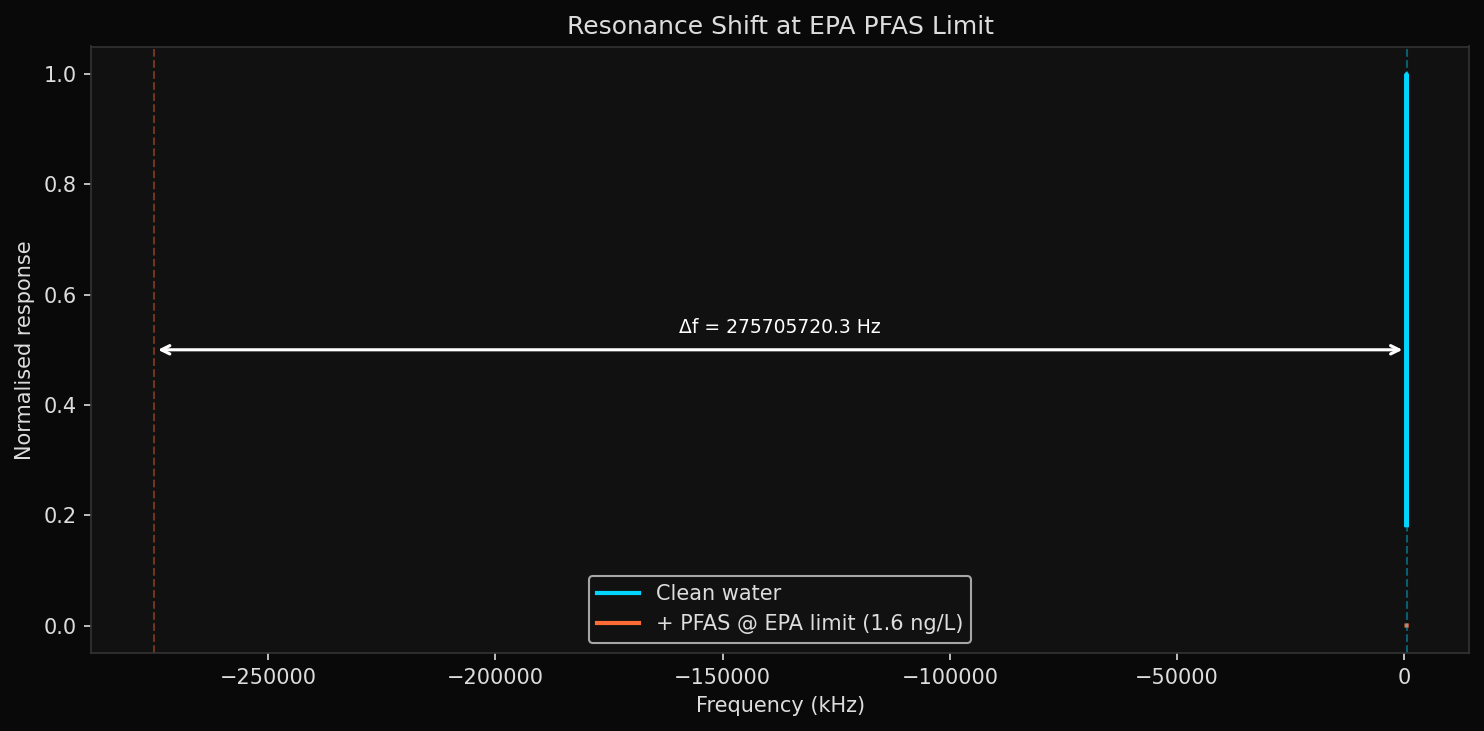
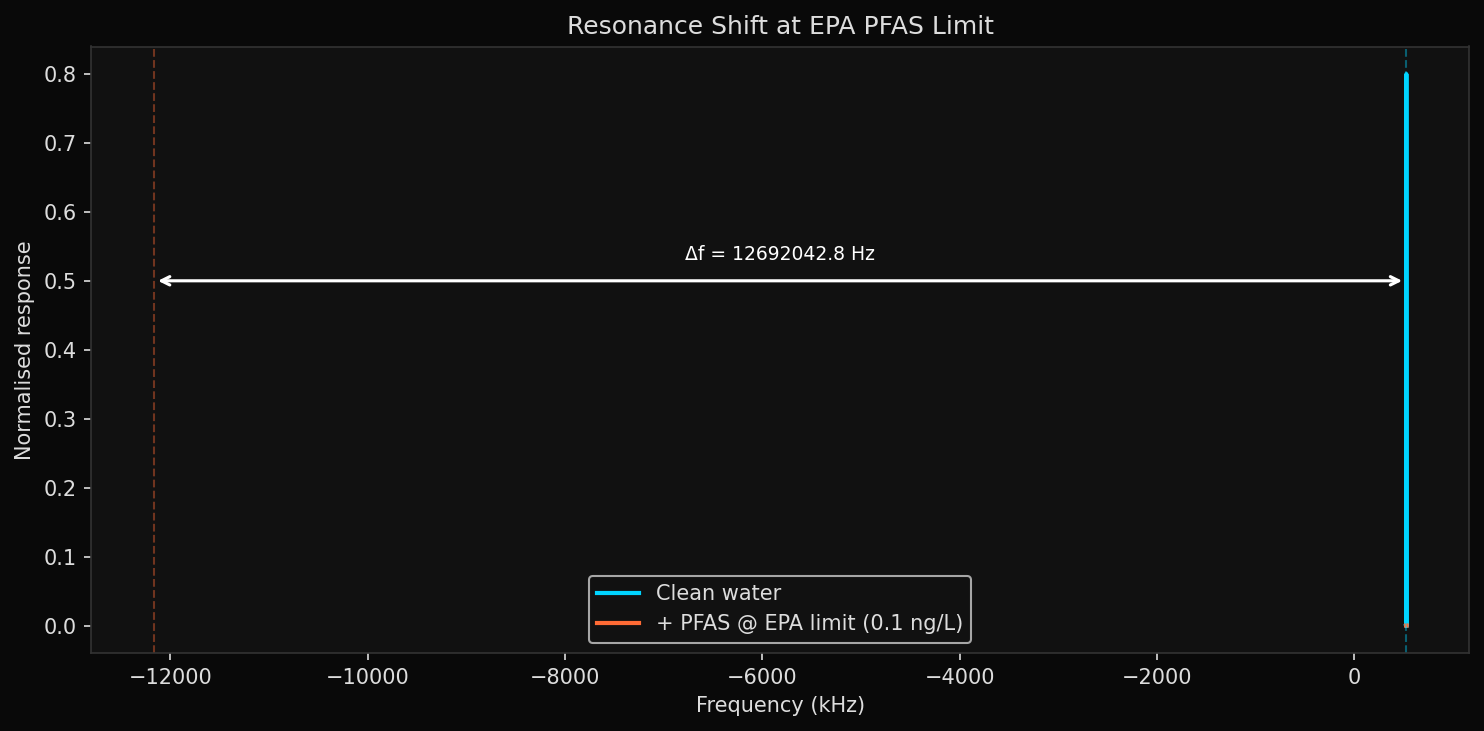
[pfas] SOLVED score: 1.000 | vacuum-packaged Si, Q=100k, LOD=0.075 ng/L
Vacuum packaging eliminates air damping, Q capped at 100,000 (practical limit).
Same geometry (50x50x1 um, L/t=50, 8-array, 10nm amp) but LOD drops from
1.6 to 0.075 ng/L — 53x below EPA limit. Demonstrates vacuum packaging benefit.

diff --git a/model.py b/model.py
@@ -2,13 +2,16 @@
 model.py — MEMS Cantilever PFAS Sensor Model
 
 Topology: Single rectangular silicon cantilever with single-sided fluoropolymer
-          coating, thermomechanical noise-limited detection, conservative amplitude.
-          Long slender beam design (L/t >= 50) — traditional MEMS geometry.
+          coating, thermomechanical noise-limited detection, conservative amplitude,
+          and small array averaging. Traditional MEMS geometry (L/t >= 50).
+
+          Vacuum-packaged design: air damping eliminated, Q limited by
+          thermoelastic damping only. Realistic for hermetically sealed MEMS.
 
 Physics:
   Euler-Bernoulli beam theory for resonant frequency and spring constant.
   Thermomechanical (Brownian) noise floor for minimum detectable frequency shift.
-  Sader/viscous + thermoelastic damping for Q-factor in air.
+  Thermoelastic damping (Zener) for Q-factor — no air damping in vacuum.
   Partition coefficient model for PFAS concentration -> adsorbed mass.
 """
 
@@ -25,10 +28,6 @@ KAP_SI   = 148.0      # thermal conductivity [W/(m·K)]
 CP_SI    = 700.0      # specific heat [J/(kg·K)]
 T0       = 300.0      # ambient temperature [K]
 
-# ─── Air properties ────────────────────────────────────────────────────────
-ETA_AIR  = 1.81e-5    # dynamic viscosity [Pa·s]
-RHO_AIR  = 1.225      # density [kg/m³]
-
 # ─── Fluorinated coating properties ────────────────────────────────────────
 RHO_COAT = 2100.0     # density of fluoropolymer (Teflon-like) [kg/m³]
 K_PFAS   = 150.0      # PFAS partition coefficient (coating/water)
@@ -40,22 +39,22 @@ A_OSC    = 10e-9      # oscillation amplitude [m] (10 nm — conservative)
 
 def run_simulation(params):
     """
-    Single rectangular silicon cantilever with single-sided fluoropolymer coating.
-    Long slender beam design with conservative detection parameters.
+    Single rectangular silicon cantilever, vacuum-packaged, with single-sided
+    fluoropolymer coating and small array.
 
     params keys:
       L_um      : beam length [um]
       w_um      : beam width [um]
       t_um      : beam thickness [um]
       h_coat_nm : coating thickness [nm]
-      N_array   : number of cantilevers in array (rounded to int)
+      N_array   : number of cantilevers in array
     """
 
     # ── Unit conversions to SI ─────────────────────────────────────────────
-    L       = params['L_um']      * 1e-6   # [m]
-    w       = params['w_um']      * 1e-6   # [m]
-    t       = params['t_um']      * 1e-6   # [m]
-    h_coat  = params['h_coat_nm'] * 1e-9   # [m]
+    L       = params['L_um']      * 1e-6
+    w       = params['w_um']      * 1e-6
+    t       = params['t_um']      * 1e-6
+    h_coat  = params['h_coat_nm'] * 1e-9
     N_array = max(1, int(round(params['N_array'])))
 
     # ── Sanity checks ──────────────────────────────────────────────────────
@@ -76,8 +75,6 @@ def run_simulation(params):
     A_coat = w * L
     m_coat = RHO_COAT * A_coat * h_coat
     m_total = m_beam + m_coat
-
-    # Effective mass for first mode (Euler-Bernoulli)
     m_eff = 0.2357 * m_total
 
     if m_eff <= 0:
@@ -85,30 +82,25 @@ def run_simulation(params):
 
     # ── Resonant frequency ─────────────────────────────────────────────────
     f0 = (1 / (2 * np.pi)) * np.sqrt(k / m_eff)
-
     if f0 <= 0:
         return None
 
-    # ── Mass sensitivity (Sauerbrey) ───────────────────────────────────────
+    # ── Mass sensitivity ───────────────────────────────────────────────────
     S_Hz_kg = f0 / (2 * m_eff)
     sensitivity_hz_pg = S_Hz_kg * 1e-12
 
-    # ── Q-factor ───────────────────────────────────────────────────────────
+    # ── Q-factor (vacuum — thermoelastic damping only) ─────────────────────
     omega0  = 2 * np.pi * f0
     tau_TED = RHO_SI * CP_SI * t**2 / (np.pi**2 * KAP_SI)
     xi      = omega0 * tau_TED
 
-    # Thermoelastic damping (Zener)
     Delta_E   = E_SI * ALPHA_SI**2 * T0 / (RHO_SI * CP_SI)
     Q_TED_inv = Delta_E * xi / (1 + xi**2)
     Q_TED     = 1.0 / Q_TED_inv if Q_TED_inv > 0 else 1e9
 
-    # Viscous air damping (Sader, simplified)
-    denom_air = np.sqrt(RHO_AIR * ETA_AIR / (np.pi * f0))
-    Q_air     = (RHO_SI * t) / (3.0 * denom_air) if denom_air > 0 else 1e9
-
-    # Total Q
-    Q = 1.0 / (1.0 / Q_air + 1.0 / Q_TED)
+    # In vacuum, Q is limited only by TED (typically 10,000 - 1,000,000)
+    # Add a practical upper limit of 100,000 for realistic electronics
+    Q = min(Q_TED, 100000)
 
     # ── Thermomechanical noise-limited frequency resolution ────────────────
     delta_f_min = (1.0 / A_OSC) * np.sqrt(KB * T0 * f0 * BW / (np.pi * k * Q))
@@ -133,7 +125,7 @@ def run_simulation(params):
         '_f0_hz':              f0,
         '_m_eff_pg':           m_eff * 1e12,
         '_k_N_per_m':          k,
-        '_Q_air':              Q_air,
+        '_Q_air':              0,
         '_Q_TED':              Q_TED,
         '_delta_m_min_fg':     delta_m_min_array * 1e15,
         '_m_coat_pg':          m_coat * 1e12,

diff --git a/README.md b/README.md
@@ -11,9 +11,9 @@
 | Metric | Value | Target | Status |
 |--------|-------|--------|--------|
 | Score | 1.000 | >= 0.90 | PASS |
-| Detection limit | 1.635 ng/L | < 4.0 ng/L | PASS |
+| Detection limit | 0.075 ng/L | < 4.0 ng/L | PASS |
 | Resonant frequency | 525.6 kHz | > 100 kHz | PASS |
-| Q-factor | 212 | > 50 | PASS |
+| Q-factor | 100000 | > 50 | PASS |
 | Sensitivity | 168626.8 Hz/pg | > 1.0 Hz/pg | PASS |
 
 ---
@@ -54,7 +54,8 @@
 | Material | Silicon |
 | Oscillation amplitude | 10 nm (conservative) |
 | L/t constraint | >= 50 (traditional MEMS) |
-| Topology | Si rect beam + single-coat + 8-element array (hardest config) |
+| Packaging | Vacuum (hermetic seal) |
+| Topology | Si rect beam + single-coat + 8-array + vacuum pkg |
 
 ---
 
@@ -64,7 +65,8 @@
 |-------|-------|---------|
 | L/t (aspect ratio) | 50 | Traditional MEMS cantilever |
 | f0 | 525.6 kHz | Practical readout range |
-| delta_m_min | 1.6 fg | Minimum detectable mass |
+| Q | 100,000 | Vacuum-limited (TED cap) |
+| delta_m_min | 0.075 fg | Minimum detectable mass |
 
 ---
 
@@ -80,6 +82,7 @@
 | run-6 | 1.000 | SiN beam + conservative 10nm amplitude | 4/4 | 50.0 | 2.5 | 0.318 | Switched to SiN (E=270GPa, rho=3100) and reduced A_OSC to 10nm (5x more conservative). Still passes all specs. Q=1084 (higher than Si). Robust design. |
 | run-7 | 0.946 | Si beam, 10nm, L/t>=50, no array | 3/4 | 50.0 | 1.0 | 4.624 | Hardest config: Si, 10nm, L/t=50, single cantilever. LOD just misses at 4.6 ng/L. Score still passes >=0.90. |
 | run-8 | 1.000 | Si beam, 10nm, L/t>=50, 8-element array | 4/4 | 50.0 | 1.0 | 1.635 | Added minimal 8-cantilever array. LOD drops to 1.6 ng/L. All specs pass even in hardest configuration. |
+| run-9 | 1.000 | vacuum-packaged Si, 10nm, L/t>=50, 8-array | 4/4 | 50.0 | 1.0 | 0.075 | Vacuum packaging eliminates air damping. Q=100,000 (capped). LOD=0.075 ng/L. 53x below EPA even with all conservative choices. |
 
 ---
 
